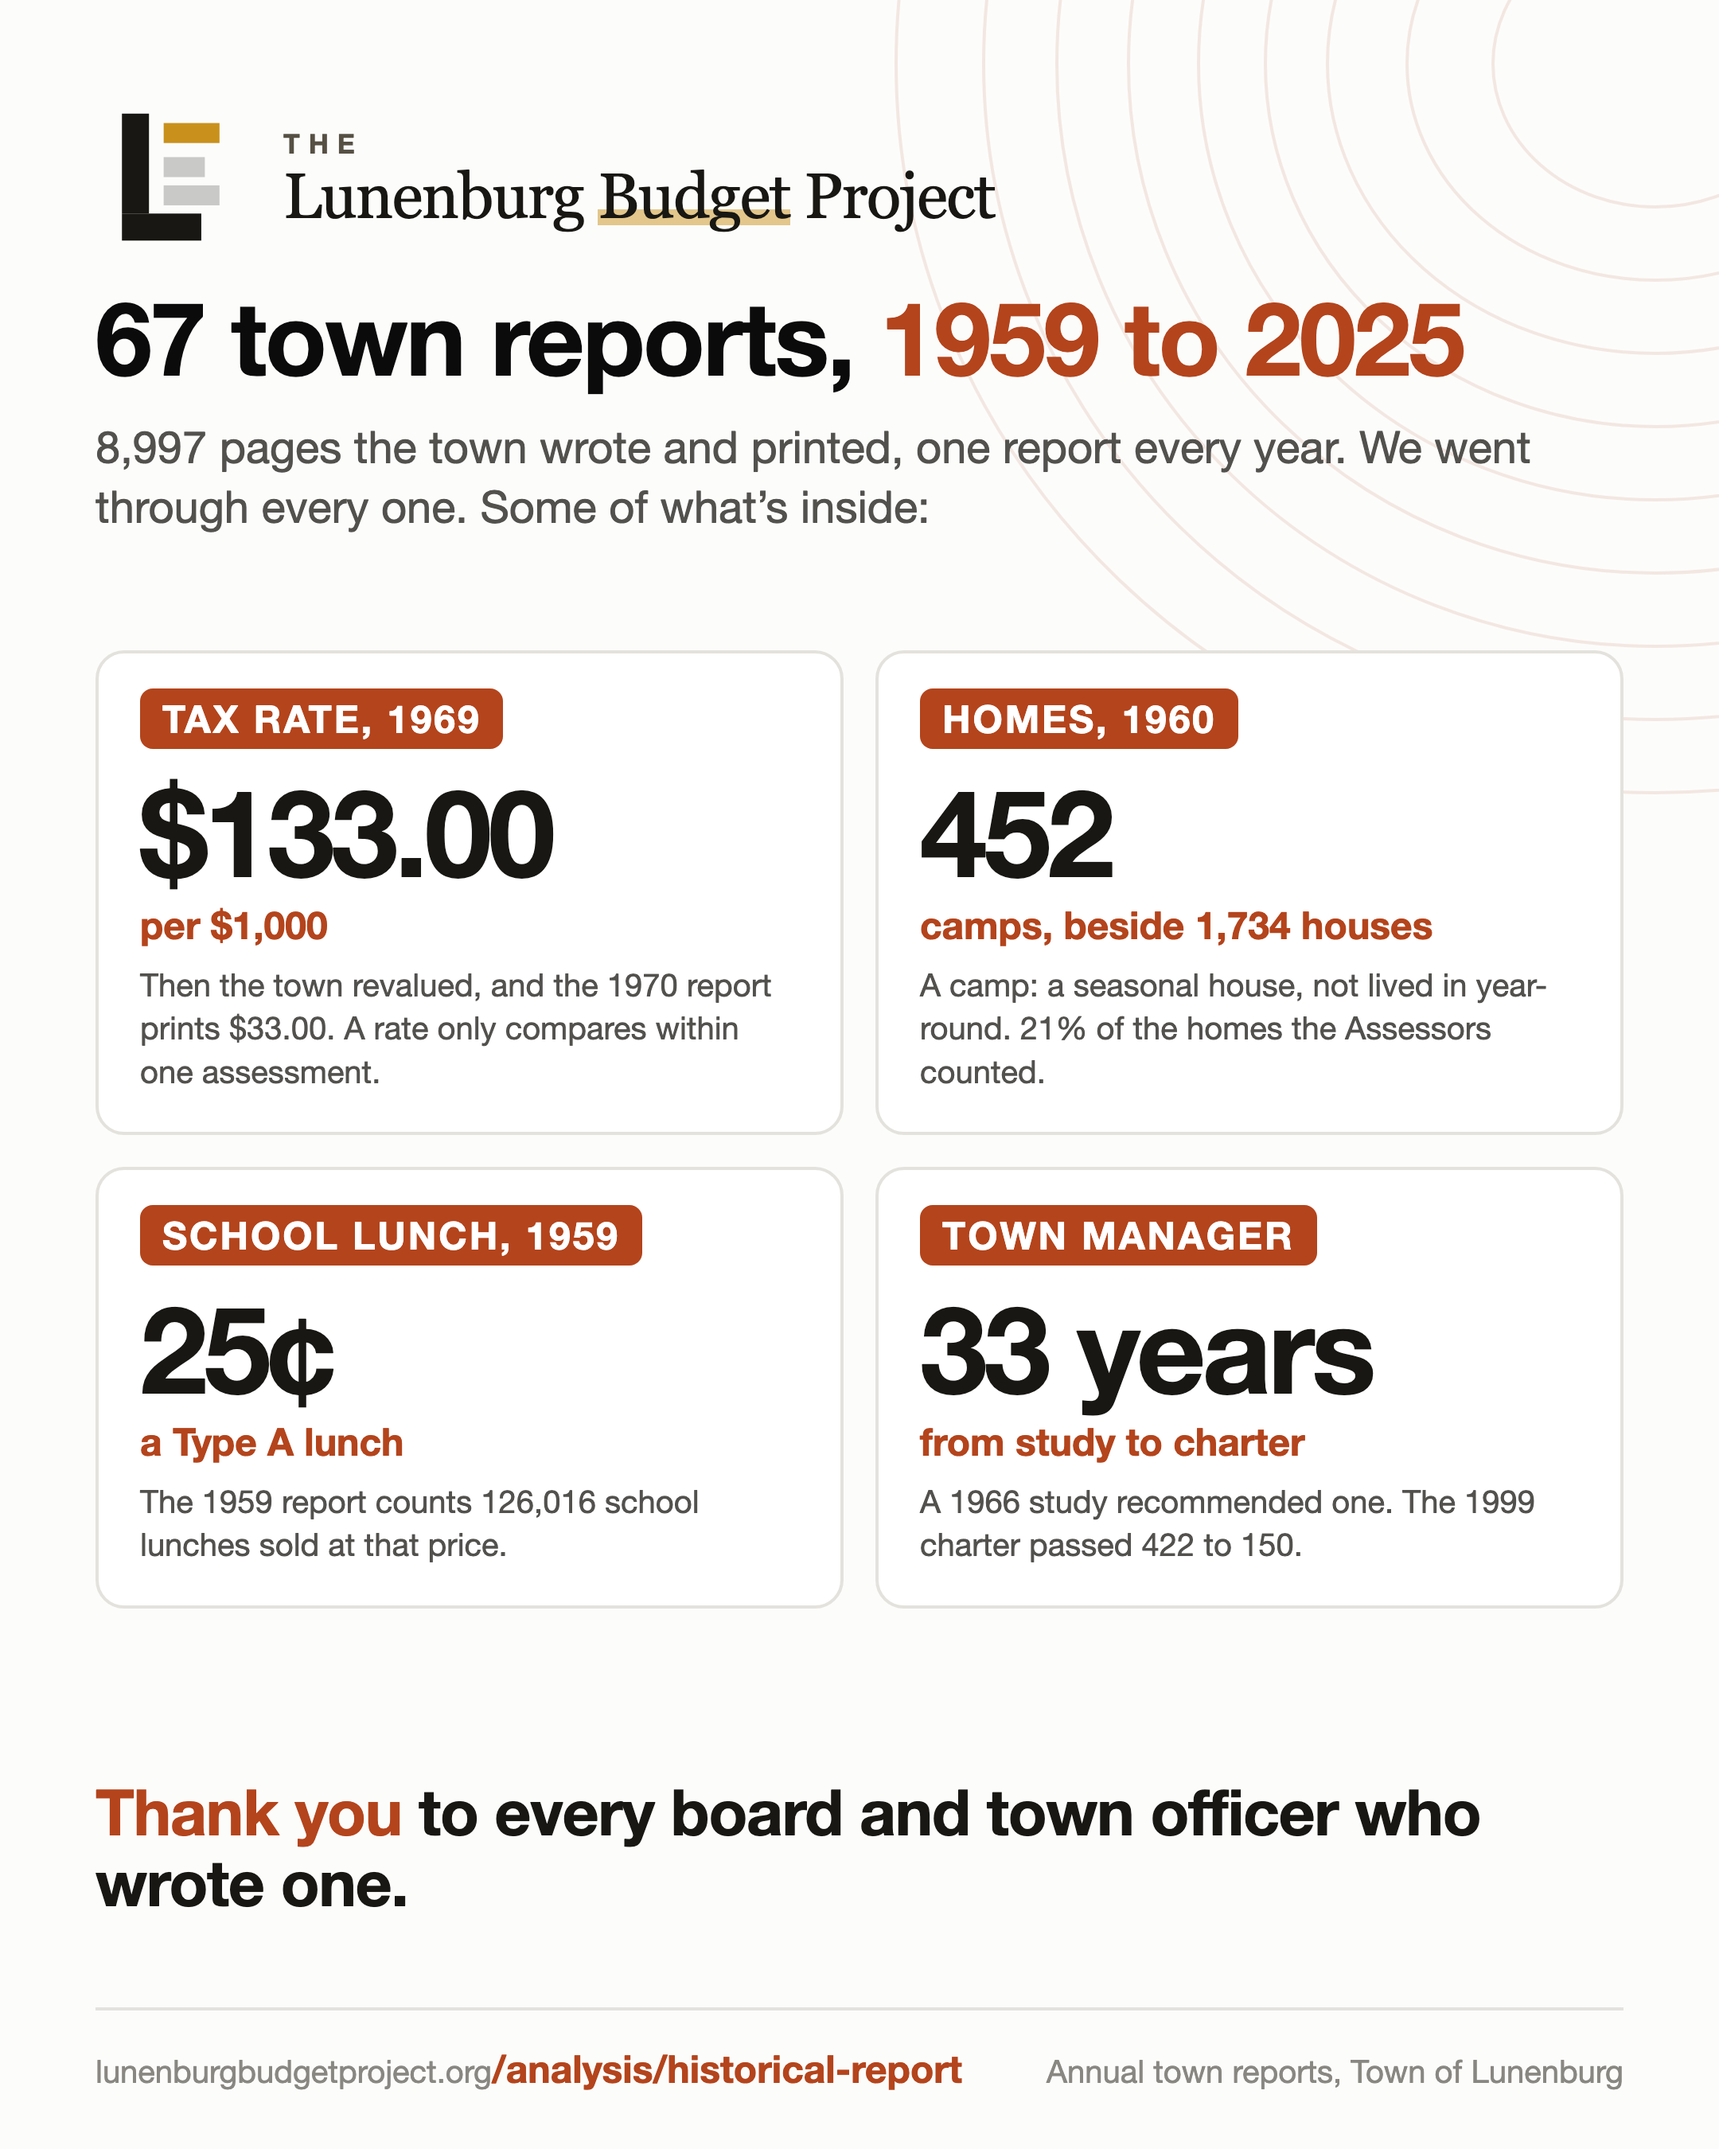
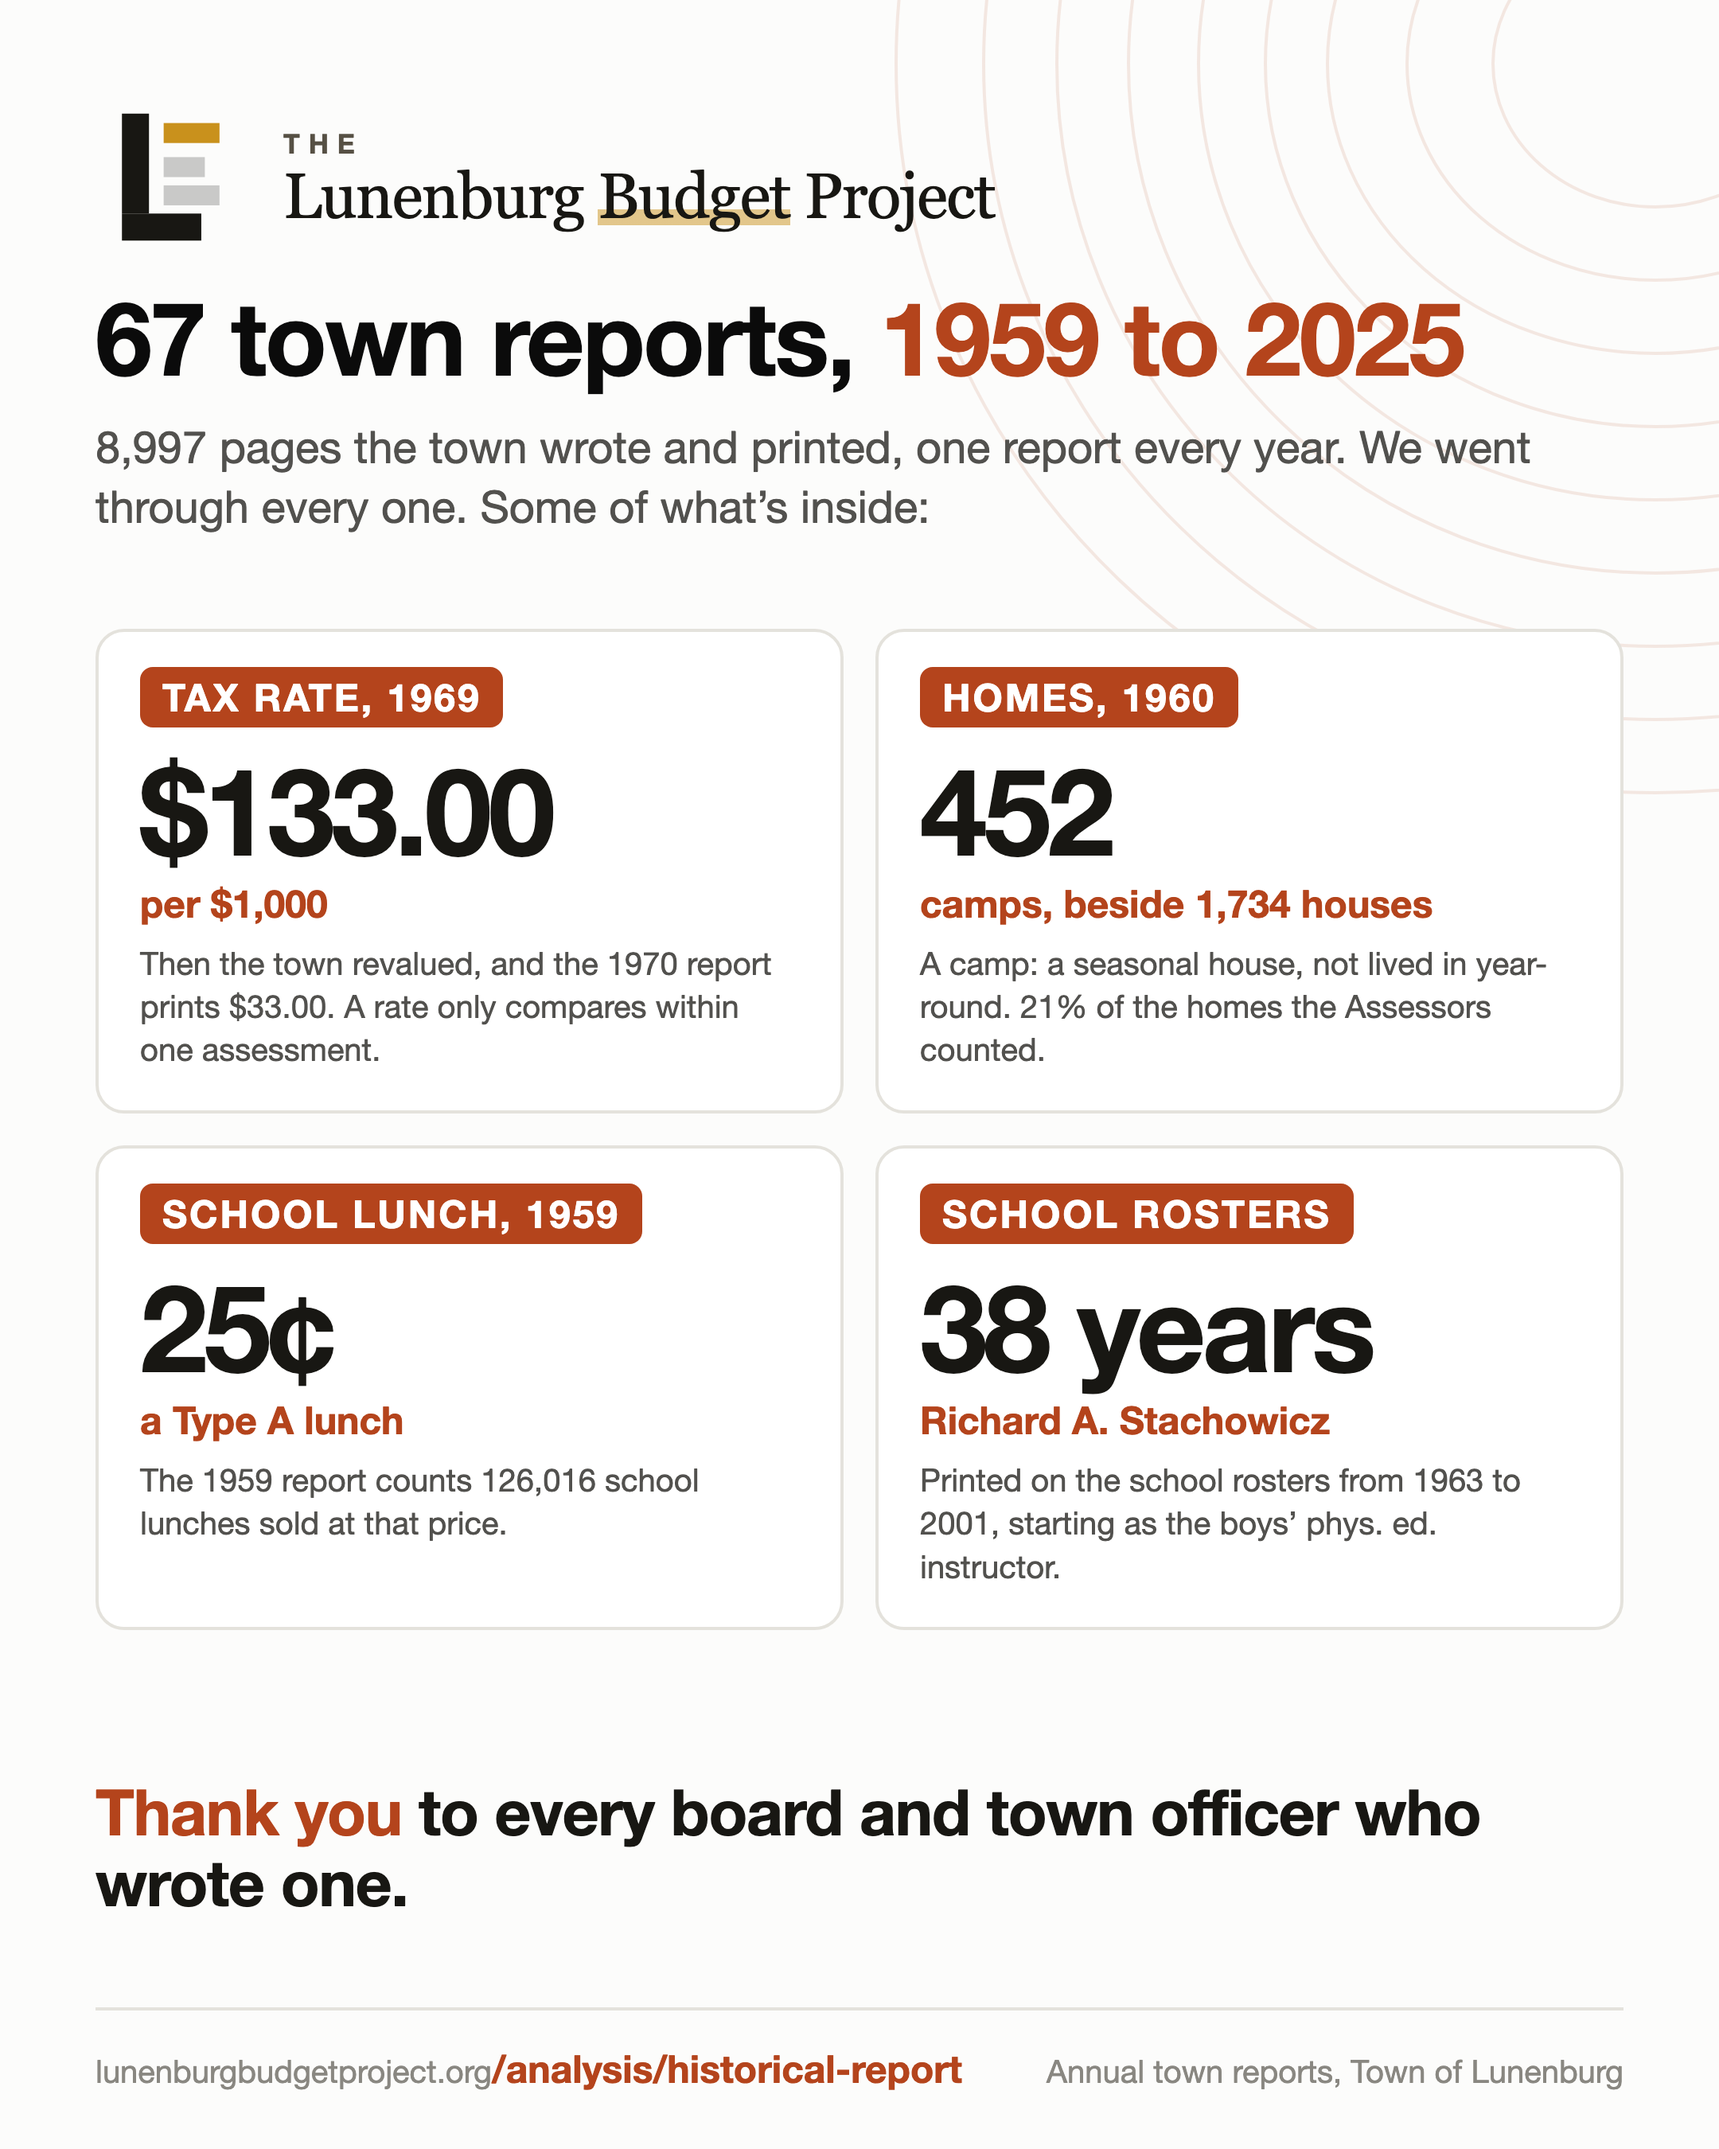
Historical report post: names residents may know -- roster runs, the 1959 tie, the first aide, the first CAFO
Claude-Session: https://claude.ai/code/session_012N2Qx5zhbwHuRfLN411JKu

diff --git a/social/posts/2026-10-30-historical-report/image.html b/social/posts/2026-10-30-historical-report/image.html
@@ -89,7 +89,7 @@ h1 em{font-style:normal;color:#b4441c}
 <div class="logo"><svg class="lm" viewBox="4 3 26 26"><rect x="8.5" y="5" width="4.6" height="17" fill="#181713"/><rect x="8.5" y="22" width="13.5" height="4.6" fill="#181713"/><rect x="15.6" y="6.6" width="9.5" height="3.4" fill="#c9911c"/><rect x="15.6" y="12.4" width="7" height="3.4" fill="#181713" opacity=".22"/><rect x="15.6" y="17.2" width="9.5" height="3.4" fill="#181713" opacity=".22"/></svg><div class="lw"><div class="lt">The</div><div class="ln" style="font-family:Georgia, &quot;Iowan Old Style&quot;, &quot;Times New Roman&quot;, serif">Lunenburg <span class="lhl">Budget</span> Project</div></div></div>
 <h1>67 town reports, <em>1959 to 2025</em></h1>
 <p class="sub">8,997 pages the town wrote and printed, one report every year. We went through every one. Some of what’s inside:</p>
-<div class="body"><div class="grid"><div class="g"><div class="gs">Tax rate, 1969</div><div class="gv">$133.00</div><div class="gu">per $1,000</div><div class="gt">Then the town revalued, and the 1970 report prints $33.00. A rate only compares within one assessment.</div></div><div class="g"><div class="gs">Homes, 1960</div><div class="gv">452</div><div class="gu">camps, beside 1,734 houses</div><div class="gt">A camp: a seasonal house, not lived in year-round. 21% of the homes the Assessors counted.</div></div><div class="g"><div class="gs">School lunch, 1959</div><div class="gv">25¢</div><div class="gu">a Type A lunch</div><div class="gt">The 1959 report counts 126,016 school lunches sold at that price.</div></div><div class="g"><div class="gs">Town manager</div><div class="gv">33 years</div><div class="gu">from study to charter</div><div class="gt">A 1966 study recommended one. The 1999 charter passed 422 to 150.</div></div></div></div>
+<div class="body"><div class="grid"><div class="g"><div class="gs">Tax rate, 1969</div><div class="gv">$133.00</div><div class="gu">per $1,000</div><div class="gt">Then the town revalued, and the 1970 report prints $33.00. A rate only compares within one assessment.</div></div><div class="g"><div class="gs">Homes, 1960</div><div class="gv">452</div><div class="gu">camps, beside 1,734 houses</div><div class="gt">A camp: a seasonal house, not lived in year-round. 21% of the homes the Assessors counted.</div></div><div class="g"><div class="gs">School lunch, 1959</div><div class="gv">25¢</div><div class="gu">a Type A lunch</div><div class="gt">The 1959 report counts 126,016 school lunches sold at that price.</div></div><div class="g"><div class="gs">School rosters</div><div class="gv">38 years</div><div class="gu">Richard A. Stachowicz</div><div class="gt">Printed on the school rosters from 1963 to 2001, starting as the boys’ phys. ed. instructor.</div></div></div></div>
 <p class="concl"><em>Thank you</em> to every board and town officer who wrote one.</p>
 <div class="foot"><span>lunenburgbudgetproject.org<b>/analysis/historical-report</b></span><span>Annual town reports, Town of Lunenburg</span></div>
 </div></body></html>
